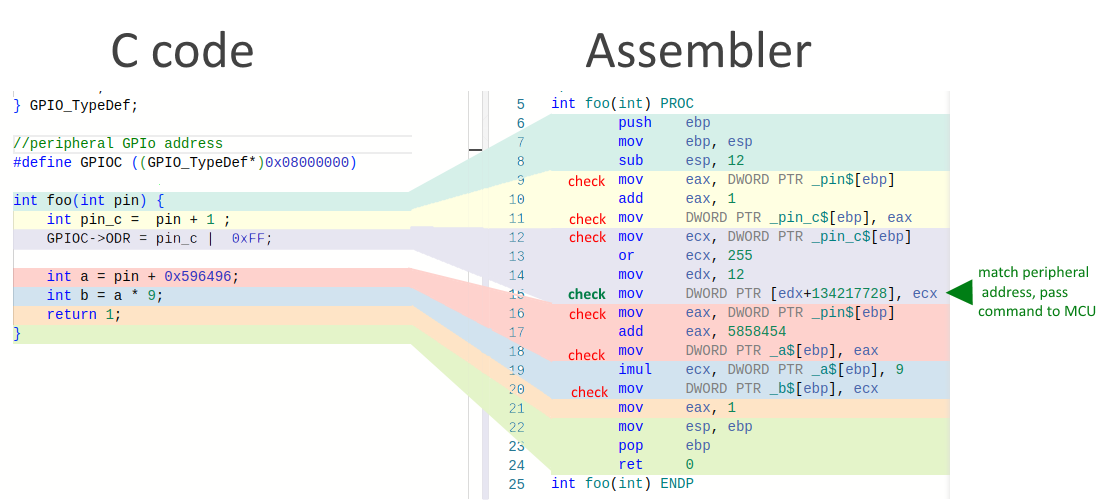
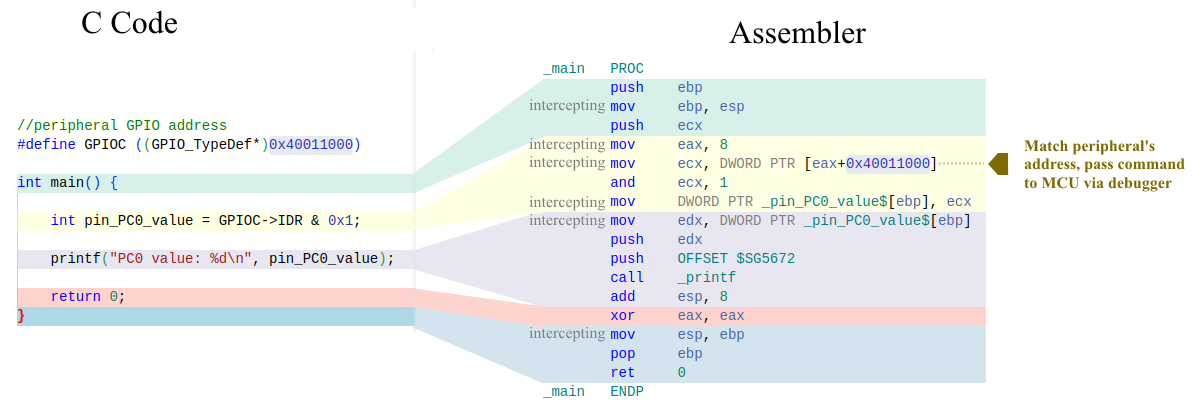
EDIT: edit 1st chapter. Remove link on medium.com
https://github.com/memfault/interrupt/pull/376#discussion_r1349315217

diff --git a/_posts/2023-09-11-mcu-peripheral-forwarding.md b/_posts/2023-09-11-mcu-peripheral-forwarding.md
@@ -24,20 +24,70 @@ There are two way to do it.
 
 ## 1st Way. Dynamic Binary Instrumentation 
 
-Imagine a scenario where you could use peripheral addresses in your PC programs just as you do in your MCU's firmware, where all address operations like store and load are dynamically hooked . This approach involves checking the operation address and, if it corresponds to peripherals, executing it on the target MCU using a debugger.
 
-![MCU Dynamic Binary Instrumentation ](/img/chip-peripheral-forwarding/intro.png)
+### Challenge
 
-In my research, I have experimented with this implementation and documented my findings in a [**paper on medium.com**](https://medium.com/@echormonov/high-level-programming-of-mcu-periphery-from-a-host-pc-without-using-firmware-and-processor-intro-4f7dc0636b21) . 
+Consider a scenario where we attempt to execute firmware code designed for the STM32F103 microcontroller directly on a PC. Take, for instance, the following simple program snippet:
+
+```c
+#include <stdio.h>
+
+// ==========================================
+// from stm32f10x.h header file
+typedef struct
+{
+  int CRL;
+  int CRH;
+  int IDR;
+  int ODR;
+  int BSRR;
+  int BRR;
+  int LCKR;
+} GPIO_TypeDef;
+
+//peripheral GPIO address
+#define GPIOC ((GPIO_TypeDef*)0x40011000)
+// ==========================================
 
 
-To achieve this runtime interruption, specialized [Dynamic Binary Instrumentation](https://en.wikipedia.org/wiki/Instrumentation_%28computer_programming%29) (DBI) toolkits come into play. These toolkits provide the necessary functionality to monitor and modify the execution of binary code in real-time. However, it is important to note that not all DBI toolkits are capable of interrupting memory operations. While there are various DBI toolkits available, only one option stands out for this particular task: Intel's [PinTool](https://www.intel.com/content/www/us/en/developer/articles/tool/pin-a-dynamic-binary-instrumentation-tool.html). Unlike other DBI tools, PinTool offers the capability to interrupt memory operations, making it a suitable choice for this approach.
+int main() {
+    // read the state of PC0 pin
+    int pin_PC0_value = GPIOC->IDR & 0x1;
+    // write the value to console
+    printf("PC0 value: %d\n", pin_PC0_value);
 
-![PinTool](/img/chip-peripheral-forwarding/pin.png)
+    return 0;
+}
+```
 
-In my [proof of concept](https://medium.com/@echormonov/high-level-programming-of-mcu-periphery-from-a-host-pc-without-using-firmware-and-processor-intro-4f7dc0636b21) implementation, I have written a [custom plugin](https://github.com/ser-mk/AddressIntercept) for Intel PinTool. This plugin serves as a powerful tool to check all memory operations performed by the PC program. By analyzing the memory addresses accessed during runtime, the PinTool plugin can effectively identify operations that correspond to the microcontroller's peripheral registers. Once identified, the plugin takes the necessary steps to initiate the execution of the peripheral operation on the MCU.
+While this code might build successfully on our PC, executing it directly fails. The reason being, the PC application can't access the memory address 0x40011000 directly, as it's specific to the STM32F103 microcontroller's GPIOC peripheral.
 
-![c lang to asm](/img/chip-peripheral-forwarding/c-asm.png)
+The challenge at hand is to enable the program to remain valid and successfully retrieve the state from a real STM32F103 chip without altering the existing codebase.
+Fortunately, the PC platform offers powerfull Dynamic Binary Instrumentation (DBI) tools, empowering developers to dynamically intercept and modify memory operations during runtime.
+In the context of peripheral operations, these DBI tools become instrumental. When a memory operation targeting the peripheral address occurs, these tools can intercept the operation.
+
+```c
+int pin_PC0_value = GPIOC->IDR & 0x1;
+```
+
+During this interception, the program can be instructed to load a value directly from the GPIOC peripheral register of the STM32F103 chip. With the aid of a debugger, for example, we can acquire the valid value from the physical hardware and seamlessly return it to the executing operation.
+
+
+![Intercept operation](/img/chip-peripheral-forwarding/intercept.png)
+
+
+### Pintool
+
+However, it is important to note that not all DBI toolkits are capable of interrupting memory operations. While there are various DBI toolkits available, only one option stands out for this particular task: Intel's [PinTool](https://www.intel.com/content/www/us/en/developer/articles/tool/pin-a-dynamic-binary-instrumentation-tool.html). Unlike other DBI tools, PinTool offers the capability to interrupt memory operations, making it a suitable choice for this approach.
+
+In the pursuit of this approach, I have developed a [proof of concept](https://github.com/ser-mk/AddressIntercept-example-UART-DMA) using PinTool. This uses a [custom plugin](https://github.com/ser-mk/AddressIntercept), designed  for Intel PinTool.
+[The plugin](https://github.com/ser-mk/AddressIntercept) is engineered to dynamically intercept all memory operations executed by the instrumented PC program. Given that the X86 processor predominantly utilizes the 'mov' instruction for memory-related tasks, the plugin intercepts every 'mov' instruction during runtime.
+
+![C Asm intercepted code](/img/chip-peripheral-forwarding/c-asm.png)
+
+It then examines the runtime arguments of these instructions, specifically focusing on address arguments, comparing them against the addresses of the microcontroller’s peripheral registers. Once identified, the plugin takes the necessary steps to initiate the execution of the peripheral operation on the MCU.
+
+![Loading by address](/img/chip-peripheral-forwarding/loading.png)
 
 To achieve this seamless execution, the PinTool plugin establishes communication with the debugger using either the [OpenOCD server](https://openocd.org/) or the [GDB server](https://en.wikipedia.org/wiki/Gdbserver). Both of these servers offer robust APIs that enable developers to execute memory operations on the target device.
 
